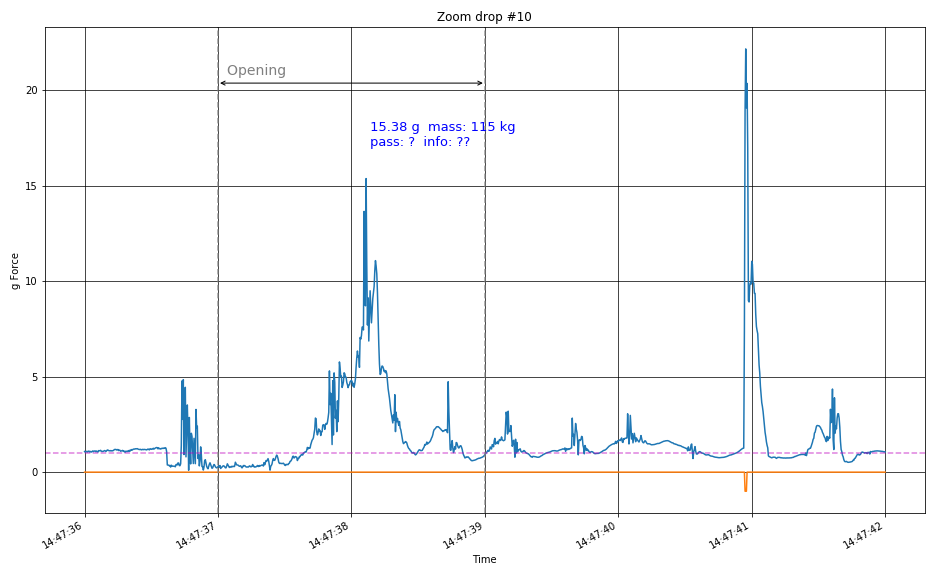
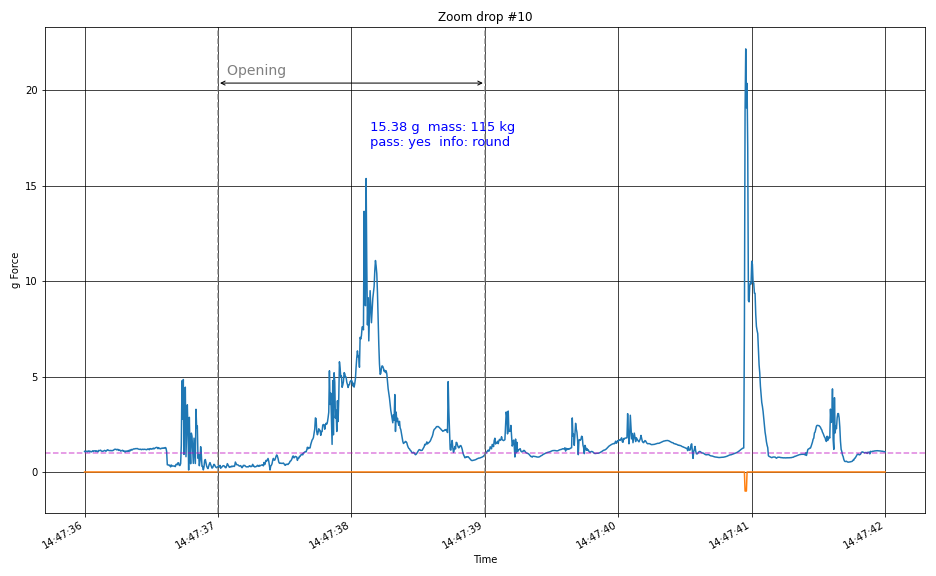
add pass fail data session 2

diff --git a/Rescue_opening_shock/report/2020-12-21/index.html b/Rescue_opening_shock/report/2020-12-21/index.html
@@ -10,15 +10,15 @@
         code {
             white-space: pre-wrap;
         }
-        
+
         span.smallcaps {
             font-variant: small-caps;
         }
-        
+
         span.underline {
             text-decoration: underline;
         }
-        
+
         div.column {
             display: inline-block;
             vertical-align: top;
@@ -35,7 +35,8 @@
     <h1 id="acceleration-during-parachute-opening">Acceleration during parachute opening - Session 2 </h1>
     <p><em>2020/12/27 - fred - v 0.1</em></p>
     <h2 id="goals">Goals</h2>
-    <p>The goal is to have a idea of the force apply on the mass during an EN 12491 Load test session. For that an accelerometer has been installed on the dummy mass.</p>
+    <p>The goal is to have a idea of the force apply on the mass during an EN 12491 Load test session. For that an
+        accelerometer has been installed on the dummy mass.</p>
     <p>This is the second session with sensor ( link to session 1) </p>
     <h2 id="contex">Contex</h2>
     <ul>
@@ -46,9 +47,12 @@
             <ul>
                 <li>WitMotion WT901SDCL.</li>
                 <li>log acceleration (x,y,z) at 200 Hz with timestamp</li>
-                <li>Max : 16 g on each axis. ( we checked that we never exceed 16g during and opening shock , but it was reach several time during ground shock)</li>
-                <li><a href="https://www.amazon.fr/gp/product/B085NWVRS2/ref=ppx_yo_dt_b_asin_title_o00_s00?ie=UTF8&amp;psc=1" title="0">amazon link</a></li>
-                <li><a href="http://wiki.wit-motion.com/english/doku.php?id=welcome" title="0">manufacturer website</a></li>
+                <li>Max : 16 g on each axis. ( we checked that we never exceed 16g during and opening shock , but it was
+                    reach several time during ground shock)</li>
+                <li><a href="https://www.amazon.fr/gp/product/B085NWVRS2/ref=ppx_yo_dt_b_asin_title_o00_s00?ie=UTF8&amp;psc=1"
+                        title="0">amazon link</a></li>
+                <li><a href="http://wiki.wit-motion.com/english/doku.php?id=welcome" title="0">manufacturer website</a>
+                </li>
             </ul>
         </li>
         <li>Units:
@@ -90,52 +94,52 @@
                 <th>1</th>
                 <td>1</td>
                 <td>230</td>
-                <td>?</td>
+                <td>Pass</td>
                 <td>8.8913</td>
                 <td>14:11:07</td>
                 <td>14:11:08</td>
                 <td>14:11:14</td>
                 <td>14:11:22</td>
-                <td>??</td>
+                <td>squared</td>
                 <td>2006.14</td>
             </tr>
             <tr>
                 <th>2</th>
                 <td>2</td>
                 <td>220</td>
-                <td>?</td>
+                <td>Fail</td>
                 <td>9.54766</td>
                 <td>14:16:04</td>
                 <td>14:16:05</td>
                 <td>14:16:07</td>
                 <td>14:16:10</td>
-                <td>??</td>
+                <td>squared</td>
                 <td>2060.58</td>
             </tr>
             <tr>
                 <th>3</th>
                 <td>3</td>
                 <td>220</td>
-                <td>?</td>
+                <td>Fail</td>
                 <td>10.7179</td>
                 <td>14:21:13</td>
                 <td>14:21:14</td>
                 <td>14:21:18</td>
                 <td>14:21:20</td>
-                <td>??</td>
+                <td>squared</td>
                 <td>2313.14</td>
             </tr>
             <tr>
                 <th>4</th>
                 <td>4</td>
                 <td>210</td>
-                <td>?</td>
+                <td>Fail</td>
                 <td>5.42824</td>
                 <td>14:25:20</td>
                 <td>14:25:21</td>
                 <td>14:25:24</td>
                 <td>14:25:28</td>
-                <td>??</td>
+                <td>squared</td>
                 <td>1118.27</td>
             </tr>
             <tr>
@@ -155,111 +159,112 @@
                 <th>6</th>
                 <td>6</td>
                 <td>125</td>
-                <td>?</td>
+                <td>Pass</td>
                 <td>17.6052</td>
                 <td>14:33:46</td>
                 <td>14:33:47</td>
                 <td>14:33:50</td>
                 <td>14:33:54</td>
-                <td>??</td>
+                <td>squared</td>
                 <td>2158.83</td>
             </tr>
             <tr>
                 <th>7</th>
                 <td>7</td>
                 <td>125</td>
-                <td>?</td>
+                <td>Fail</td>
                 <td>14.3026</td>
                 <td>14:37:20</td>
                 <td>14:37:21</td>
                 <td>14:37:24</td>
                 <td>14:37:27</td>
-                <td>??</td>
+                <td>squared</td>
                 <td>1753.86</td>
             </tr>
             <tr>
                 <th>8</th>
                 <td>8</td>
                 <td>120</td>
-                <td>?</td>
+                <td>Fail</td>
                 <td>14.4911</td>
                 <td>14:41:02</td>
                 <td>14:41:03</td>
                 <td>14:41:06</td>
                 <td>14:41:08</td>
-                <td>??</td>
+                <td>squared</td>
                 <td>1705.89</td>
             </tr>
             <tr>
                 <th>9</th>
                 <td>9</td>
                 <td>115</td>
-                <td>?</td>
+                <td>Pass</td>
                 <td>10.8881</td>
                 <td>14:44:31</td>
                 <td>14:44:32</td>
                 <td>14:44:34</td>
                 <td>14:44:36</td>
-                <td>??</td>
+                <td>squared</td>
                 <td>1228.34</td>
             </tr>
             <tr>
                 <th>10</th>
                 <td>10</td>
                 <td>115</td>
-                <td>?</td>
+                <td>Pass</td>
                 <td>15.3751</td>
                 <td>14:47:36</td>
                 <td>14:47:37</td>
                 <td>14:47:39</td>
                 <td>14:47:42</td>
-                <td>??</td>
+                <td>round</td>
                 <td>1734.55</td>
             </tr>
             <tr>
                 <th>11</th>
                 <td>11</td>
                 <td>100</td>
-                <td>?</td>
+                <td>Pass</td>
                 <td>13.797</td>
                 <td>14:51:06</td>
                 <td>14:51:07</td>
                 <td>14:51:10</td>
                 <td>14:51:13</td>
-                <td>??</td>
+                <td>squared</td>
                 <td>1353.49</td>
             </tr>
             <tr>
                 <th>12</th>
                 <td>12</td>
                 <td>90</td>
-                <td>?</td>
+                <td>Fail</td>
                 <td>16.7369</td>
                 <td>14:55:10</td>
                 <td>14:55:11</td>
                 <td>14:55:13</td>
                 <td>14:55:15</td>
-                <td>??</td>
+                <td>squared</td>
                 <td>1477.7</td>
             </tr>
             <tr>
                 <th>13</th>
                 <td>13</td>
                 <td>80</td>
-                <td>?</td>
+                <td>Pass</td>
                 <td>13.5866</td>
                 <td>14:58:16</td>
                 <td>14:58:17</td>
                 <td>14:58:19</td>
                 <td>14:58:23</td>
-                <td>??</td>
+                <td>squared</td>
                 <td>1066.28</td>
             </tr>
         </tbody>
     </table>
     <p>Note:</p>
     <ul>
-        <li>Start time is just approximative to get an idea on the full log, no precise criteria were use to set it.</li>
+        <li>Start time is just approximative to get an idea on the full log, no precise criteria were use to set it.
+        </li>
     </ul>
     <h2 id="zoom-on-each-drop">Zoom on each drop</h2>
     <p>All graphs:</p>

diff --git a/Rescue_opening_shock/analysis_winmotion_session.py b/Rescue_opening_shock/analysis_winmotion_session.py
@@ -107,19 +107,19 @@ df.loc[(df['ax']>15.5) | (df['ay']>15.5) | (df['az']>15.5), ['flag_max']] = -1
 
 
 #%% hand results
-drop_data={  1 :    { 'id':1 ,'mass':230 ,'pass':'?',  'maxg':8.83 , 'in':'14:11:07' ,'start':'14:11:08', 'end':	'14:11:14'	,'out':	'14:11:22' , 'info':'??'},
-             2 :    { 'id':2 ,'mass':220 ,'pass':'?',  'maxg':9.50 , 'in':'14:16:04' ,'start':'14:16:05', 'end':	'14:16:07'  ,'out':	'14:16:10' , 'info':'??'},
-             3 :    { 'id':3 ,'mass':220 ,'pass':'?',  'maxg':10.75, 'in':'14:21:13' ,'start':'14:21:14', 'end':	'14:21:18'	,'out':	'14:21:20' , 'info':'??'},
-             4 :    { 'id':4 ,'mass':210 ,'pass':'?',  'maxg':5.36 , 'in':'14:25:20' ,'start':'14:25:21', 'end':	'14:25:24'	,'out':	'14:25:28' , 'info':'??'},
-             5 :    { 'id':5 ,'mass':140 ,'pass':'yes','maxg':10.28, 'in':'14:30:02' ,'start':'14:30:03', 'end':	'14:30:06'	,'out':	'14:30:08' , 'info':'squared (ozone)'},
-             6 :    { 'id':6 ,'mass':125 ,'pass':'?',  'maxg':17.61, 'in':'14:33:46' ,'start':'14:33:47', 'end':	'14:33:50'	,'out':	'14:33:54' , 'info':'??'},
-             7 :    { 'id':7 ,'mass':125 ,'pass':'?',  'maxg':14.24, 'in':'14:37:20' ,'start':'14:37:21', 'end':	'14:37:24'	,'out':	'14:37:27' , 'info':'??'},
-             8 :    { 'id':8 ,'mass':120 ,'pass':'?',  'maxg':14.49, 'in':'14:41:02' ,'start':'14:41:03', 'end':	'14:41:06'	,'out':	'14:41:08' , 'info':'??'},
-             9 :    { 'id':9 ,'mass':115 ,'pass':'?',  'maxg':11.01, 'in':'14:44:31' ,'start':'14:44:32', 'end':	'14:44:34'	,'out':	'14:44:36' , 'info':'??'},
-             10 :   {'id':10 ,'mass':115 ,'pass':'?',  'maxg':15.37, 'in':'14:47:36' ,'start':'14:47:37', 'end':	'14:47:39'	,'out':	'14:47:42' , 'info':'??'},
-             11 :   {'id':11 ,'mass':100 ,'pass':'?',  'maxg':13.83, 'in':'14:51:06' ,'start':'14:51:07', 'end':	'14:51:10'	,'out':	'14:51:13' , 'info':'??'},
-             12 :   {'id':12 ,'mass':90  ,'pass':'?',  'maxg':16.74, 'in':'14:55:10' ,'start':'14:55:11', 'end':	'14:55:13'	,'out':	'14:55:15' , 'info':'??'},
-             13 :   {'id':13 ,'mass':80  ,'pass':'?',  'maxg':13.58, 'in':'14:58:16' ,'start':'14:58:17', 'end':	'14:58:19'	,'out':	'14:58:23' , 'info':'??'},
+drop_data={  1 :    { 'id':1 ,'mass':230 ,'pass':'yes',  'maxg':8.83 , 'in':'14:11:07' ,'start':'14:11:08', 'end':	'14:11:14'	,'out':	'14:11:22' , 'info':'squared'},
+             2 :    { 'id':2 ,'mass':220 ,'pass':'no' ,  'maxg':9.50 , 'in':'14:16:04' ,'start':'14:16:05', 'end':	'14:16:07'  ,'out':	'14:16:10' , 'info':'squared'},
+             3 :    { 'id':3 ,'mass':220 ,'pass':'no' ,  'maxg':10.75, 'in':'14:21:13' ,'start':'14:21:14', 'end':	'14:21:18'	,'out':	'14:21:20' , 'info':'squared'},
+             4 :    { 'id':4 ,'mass':210 ,'pass':'no' ,  'maxg':5.36 , 'in':'14:25:20' ,'start':'14:25:21', 'end':	'14:25:24'	,'out':	'14:25:28' , 'info':'squared'},
+             5 :    { 'id':5 ,'mass':140 ,'pass':'yes',  'maxg':10.28, 'in':'14:30:02' ,'start':'14:30:03', 'end':	'14:30:06'	,'out':	'14:30:08' , 'info':'squared (ozone)'},
+             6 :    { 'id':6 ,'mass':125 ,'pass':'yes',  'maxg':17.61, 'in':'14:33:46' ,'start':'14:33:47', 'end':	'14:33:50'	,'out':	'14:33:54' , 'info':'squared'},
+             7 :    { 'id':7 ,'mass':125 ,'pass':'no' ,  'maxg':14.24, 'in':'14:37:20' ,'start':'14:37:21', 'end':	'14:37:24'	,'out':	'14:37:27' , 'info':'squared'},
+             8 :    { 'id':8 ,'mass':120 ,'pass':'no' ,  'maxg':14.49, 'in':'14:41:02' ,'start':'14:41:03', 'end':	'14:41:06'	,'out':	'14:41:08' , 'info':'squared'},
+             9 :    { 'id':9 ,'mass':115 ,'pass':'yes',  'maxg':11.01, 'in':'14:44:31' ,'start':'14:44:32', 'end':	'14:44:34'	,'out':	'14:44:36' , 'info':'squared'},
+             10 :   {'id':10 ,'mass':115 ,'pass':'yes',  'maxg':15.37, 'in':'14:47:36' ,'start':'14:47:37', 'end':	'14:47:39'	,'out':	'14:47:42' , 'info':'round'},
+             11 :   {'id':11 ,'mass':100 ,'pass':'yes',  'maxg':13.83, 'in':'14:51:06' ,'start':'14:51:07', 'end':	'14:51:10'	,'out':	'14:51:13' , 'info':'squared'},
+             12 :   {'id':12 ,'mass':90  ,'pass':'no' ,  'maxg':16.74, 'in':'14:55:10' ,'start':'14:55:11', 'end':	'14:55:13'	,'out':	'14:55:15' , 'info':'squared'},
+             13 :   {'id':13 ,'mass':80  ,'pass':'yes',  'maxg':13.58, 'in':'14:58:16' ,'start':'14:58:17', 'end':	'14:58:19'	,'out':	'14:58:23' , 'info':'squared'},
 }
 
 #%% Plot
